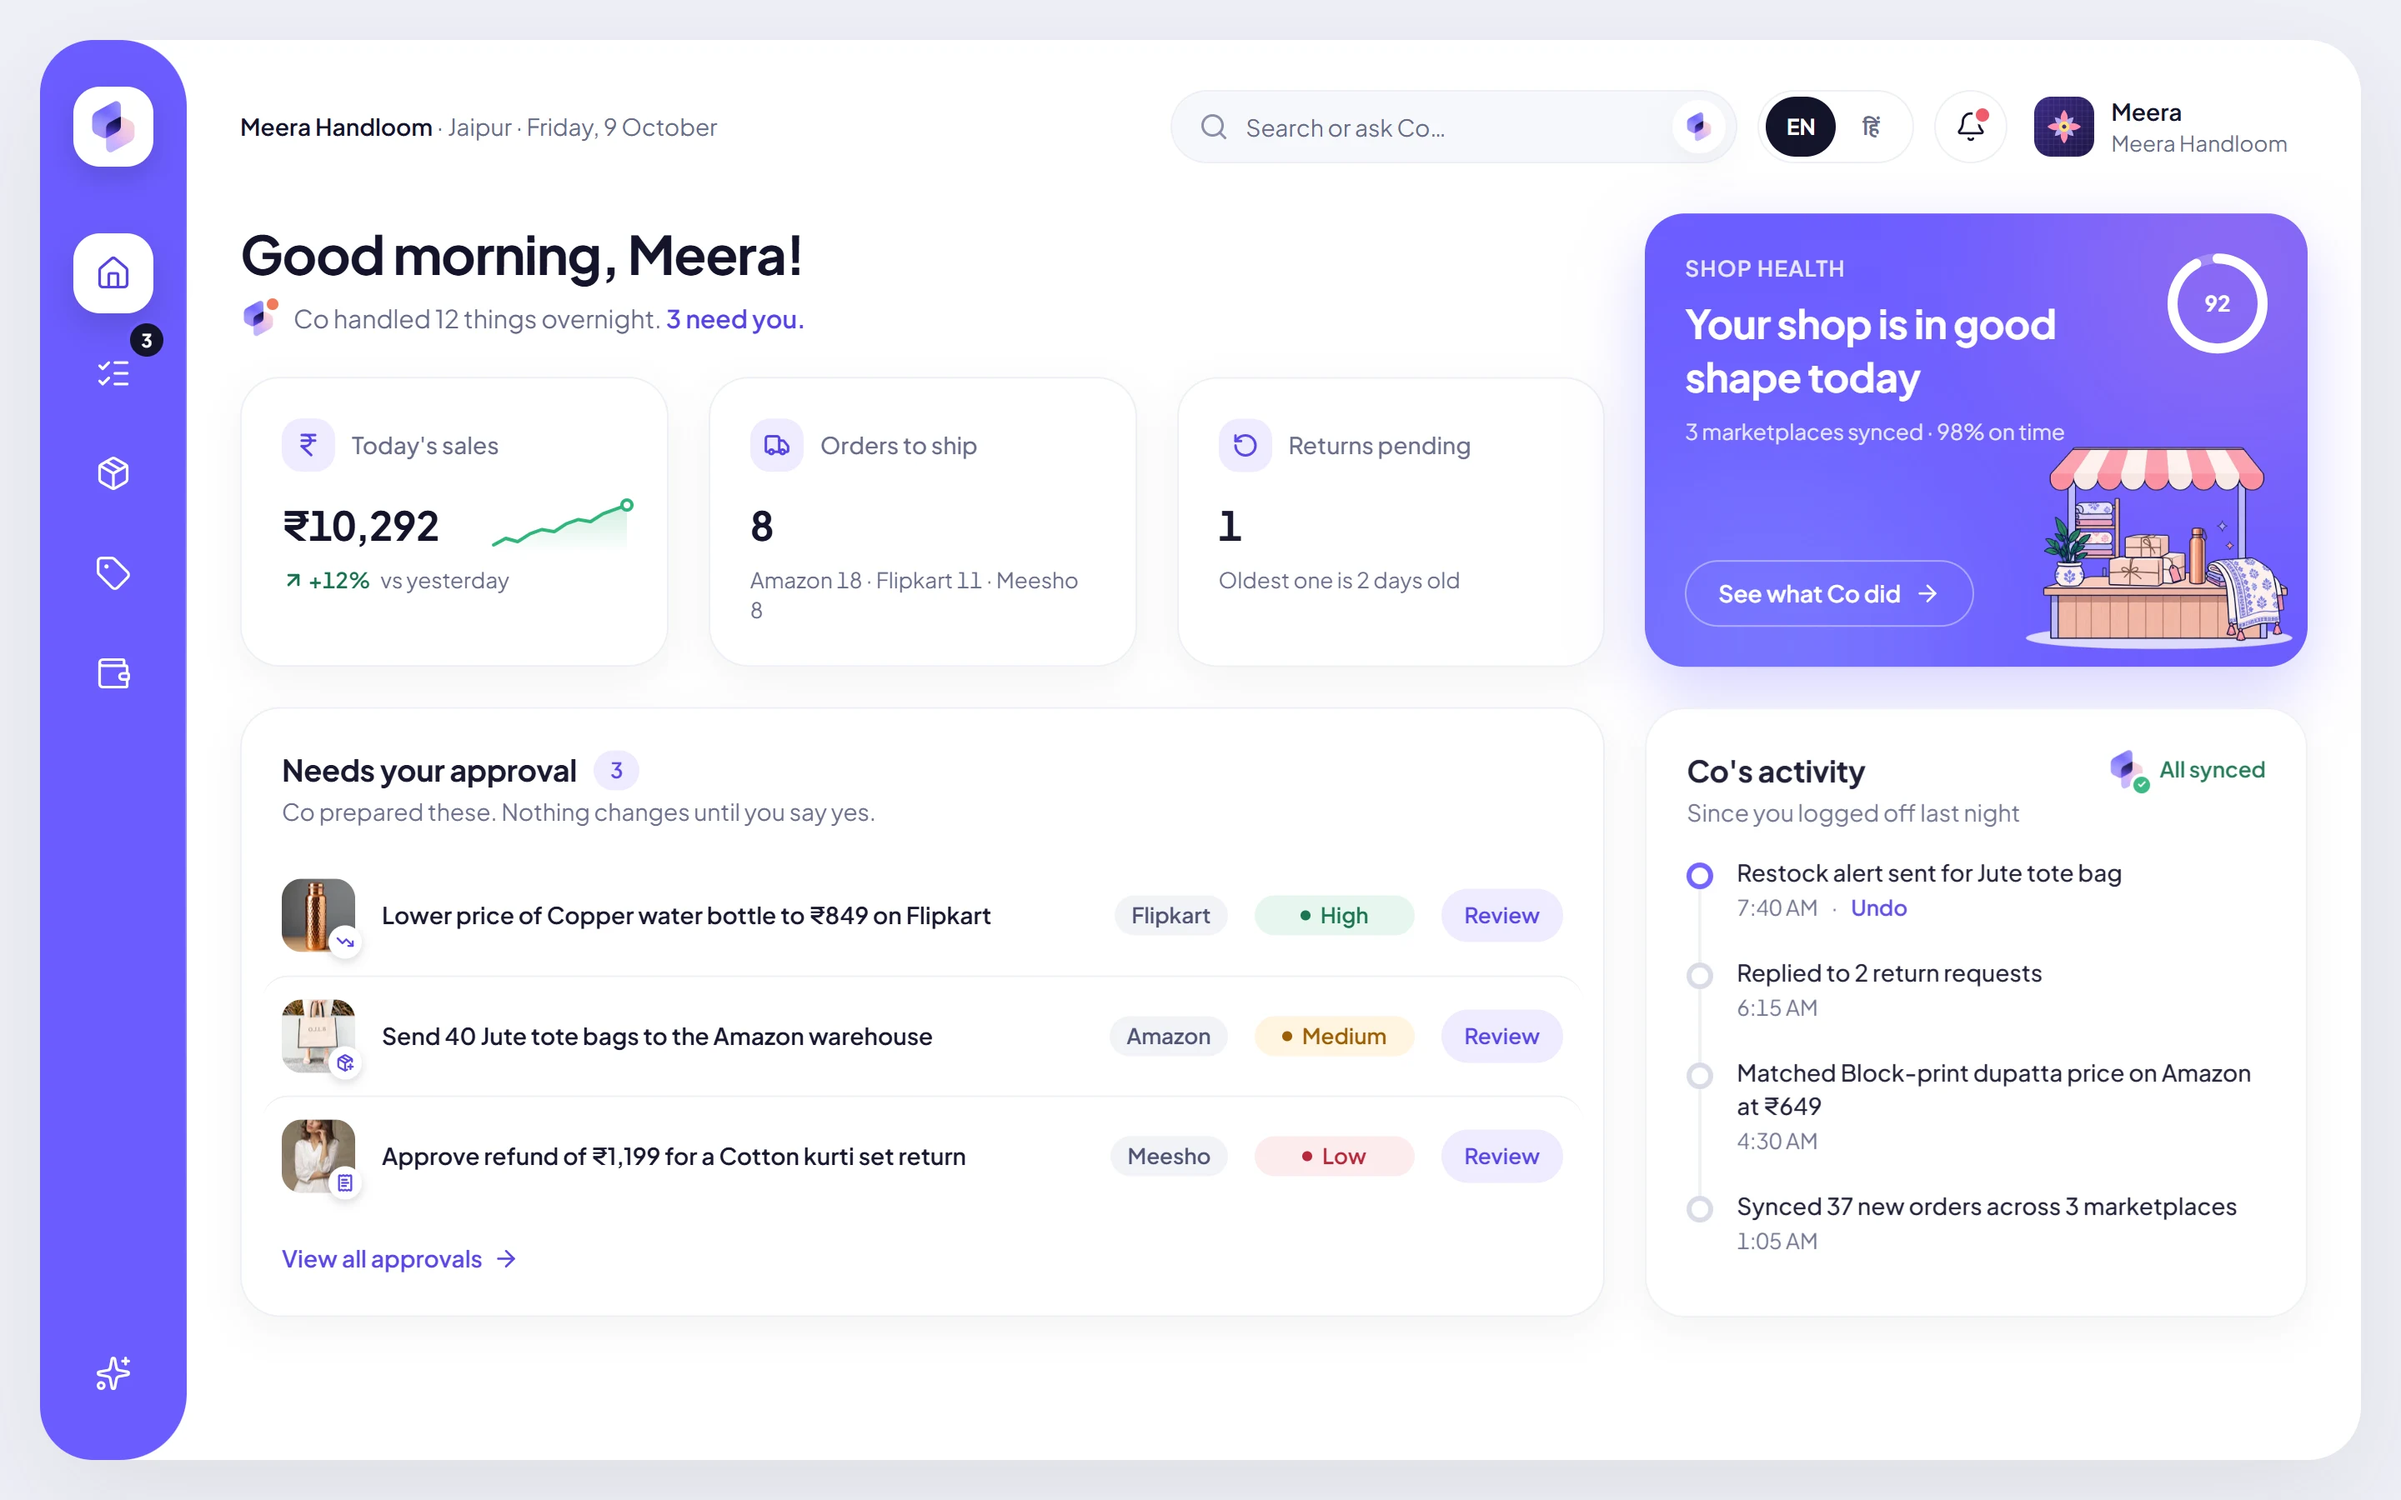
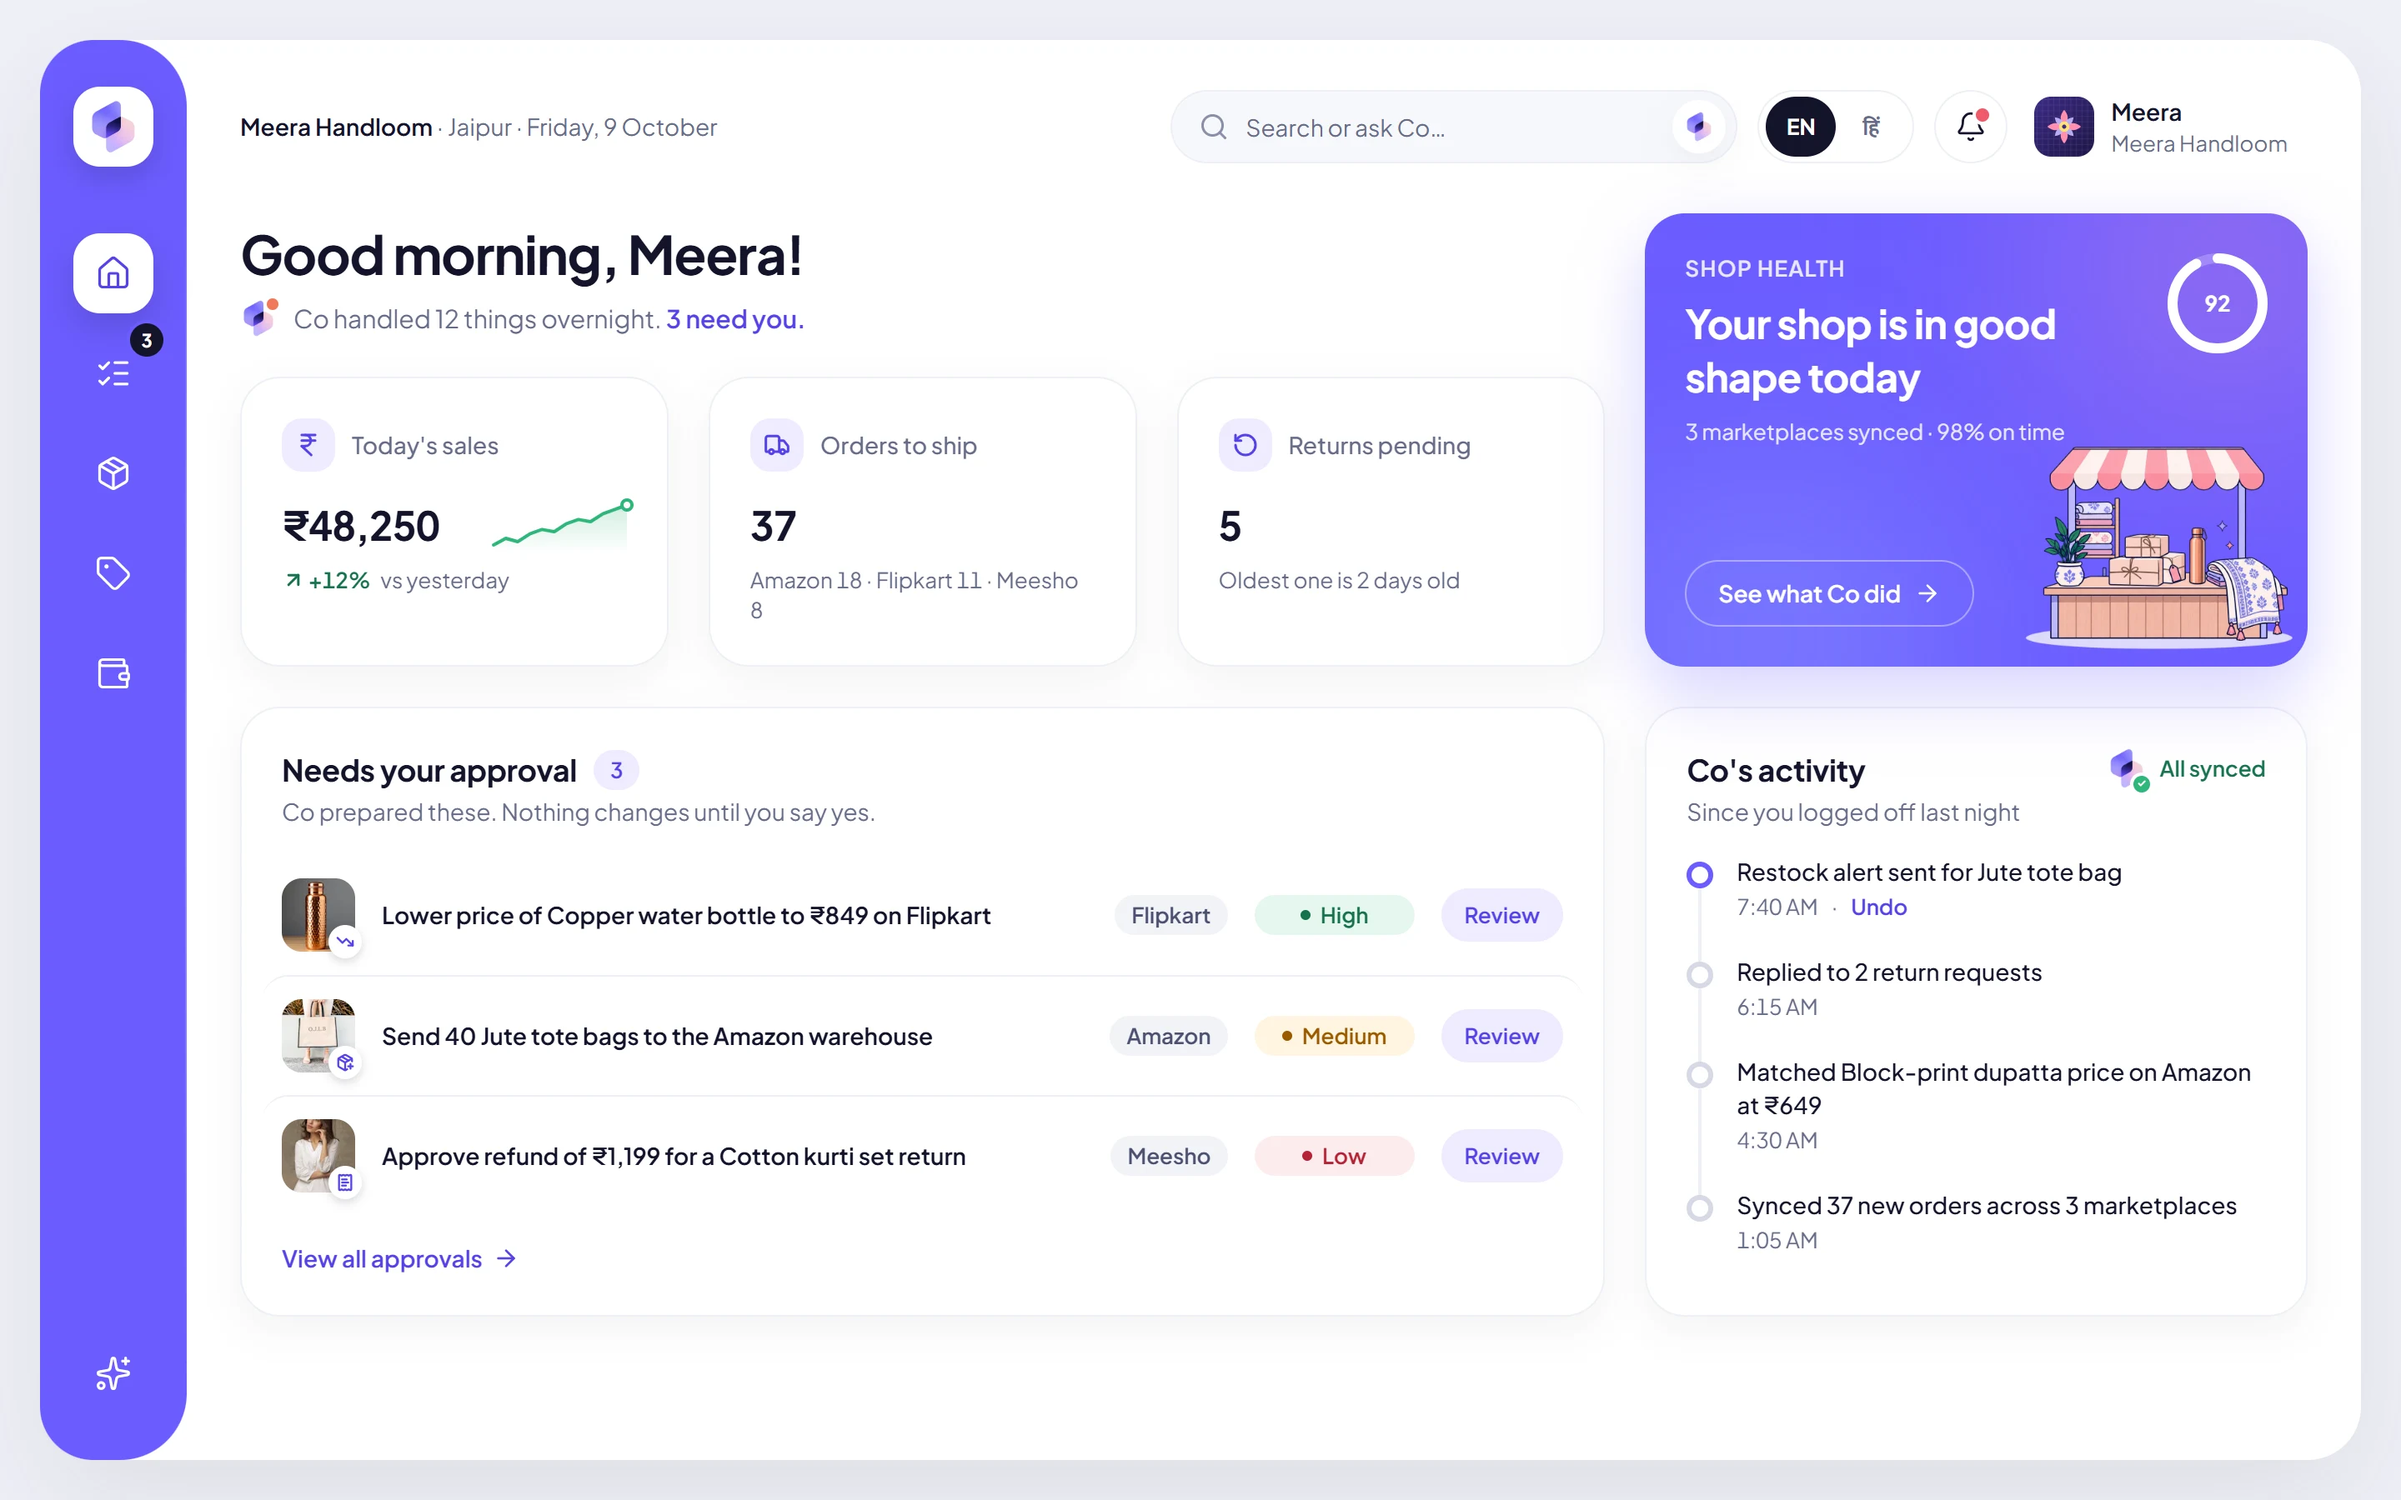
CoSell case study: prototype button beside screen tabs, plain background, fix home screenshot numbers

diff --git a/src/work/cosell/CaseStudy.jsx b/src/work/cosell/CaseStudy.jsx
@@ -1414,13 +1414,18 @@ function ScreenViewer() {
   const s = SCREENS[i];
   return (
     <div className="cs-viewer" data-reveal>
-      <div className="cs-viewer__tabs" role="tablist" aria-label="Screens">
-        {SCREENS.map((sc, k) => (
-          <button key={sc.img} type="button" role="tab" aria-selected={k === i} onClick={() => setI(k)}>
-            <span>{String(k + 1).padStart(2, "0")}</span>
-            {sc.short}
-          </button>
-        ))}
+      <div className="cs-viewer__top">
+          <div className="cs-viewer__tabs" role="tablist" aria-label="Screens">
+          {SCREENS.map((sc, k) => (
+            <button key={sc.img} type="button" role="tab" aria-selected={k === i} onClick={() => setI(k)}>
+              <span>{String(k + 1).padStart(2, "0")}</span>
+              {sc.short}
+            </button>
+          ))}
+        </div>
+        <a className="cs-protolink" href={DEMO} target="_blank" rel="noreferrer">
+          <span className="dot" /> View prototype <span aria-hidden="true">↗</span>
+        </a>
       </div>
       <Screen key={s.img} s={s} />
       <div className="cs-viewer__nav">
@@ -1495,10 +1500,6 @@ function Screen({ s }) {
 function Solution() {
   return (
     <Sec id="solution" n="06" kicker="Solution" title="Final designs">
-      <a className="cs-protolink" href={DEMO} target="_blank" rel="noreferrer" data-reveal>
-        <span className="dot" /> Open the interactive prototype <span aria-hidden="true">↗</span>
-      </a>
-
       <ScreenViewer />
 
       <div className="cs-control" data-reveal>

diff --git a/src/work/cosell/cs.css b/src/work/cosell/cs.css
@@ -1571,3 +1571,12 @@ body {
   .evo__why { width: auto; flex-direction: row; }
   .evo__why i { rotate: 90deg; }
 }
+
+.cs-viewer__top { display: flex; flex-wrap: wrap; align-items: center; justify-content: space-between; gap: 12px; }
+.cs-viewer__top .cs-protolink { padding: 10px 18px; font-size: 14px; }
+
+/* simpler, calmer page background */
+body { background: #f7f7fb !important; background-attachment: initial !important; }
+.cs-side { background: #fbfbfd !important; border-right-color: #ececf3 !important; backdrop-filter: none !important; }
+.cs-chips { background: rgba(247, 247, 251, 0.92) !important; }
+.cs-viewer { background: #fff !important; border-color: var(--line) !important; backdrop-filter: none !important; }
